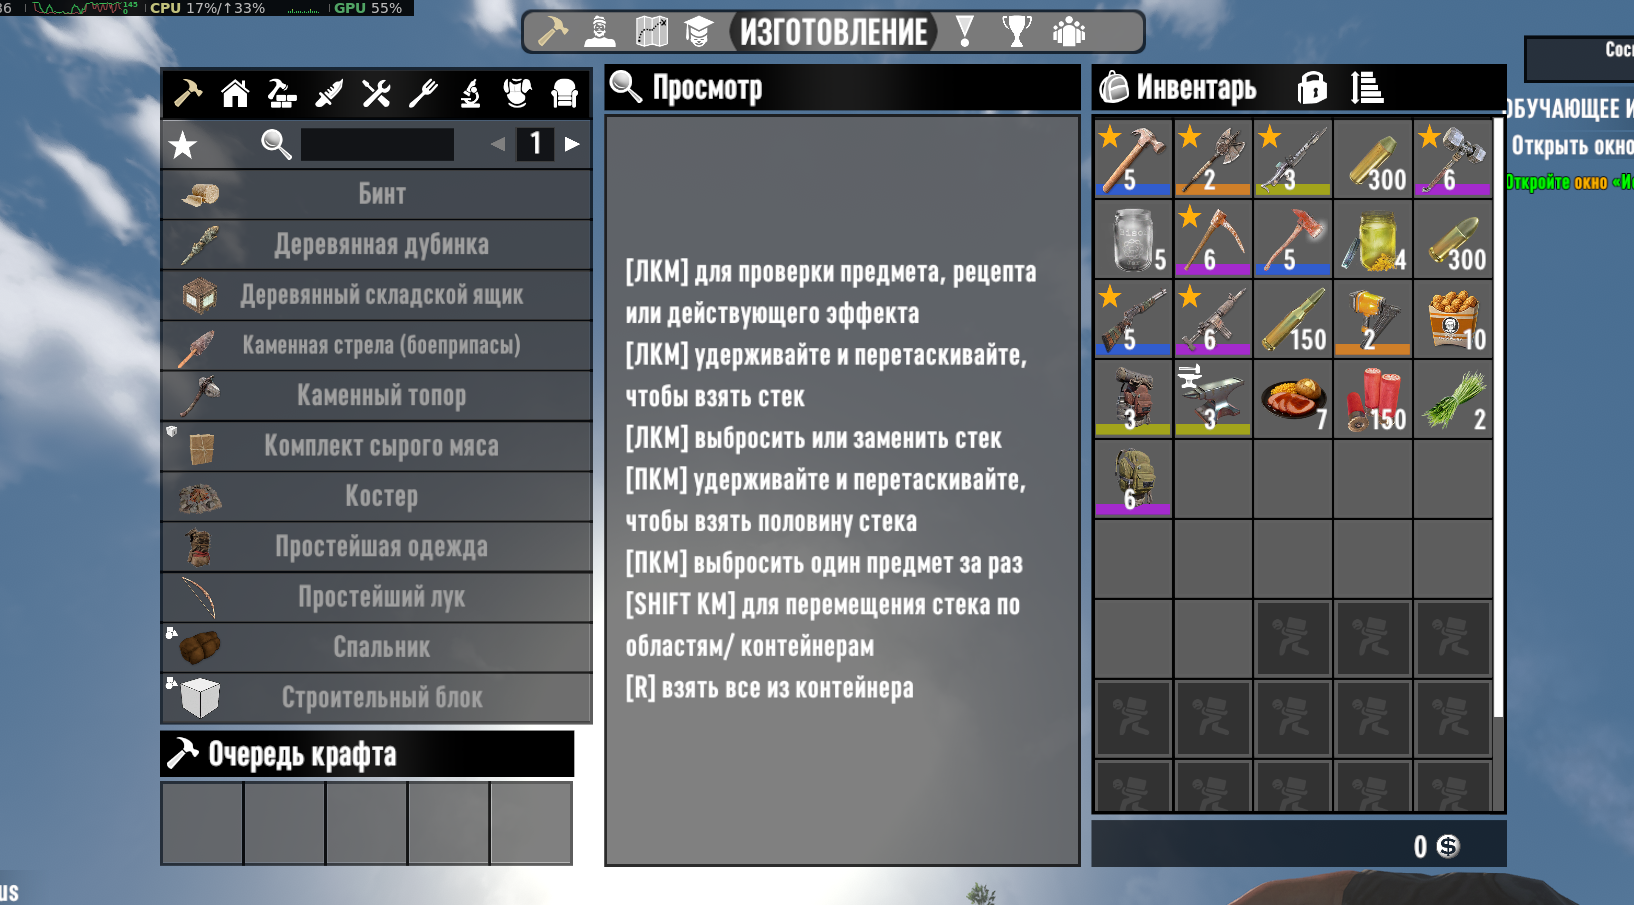
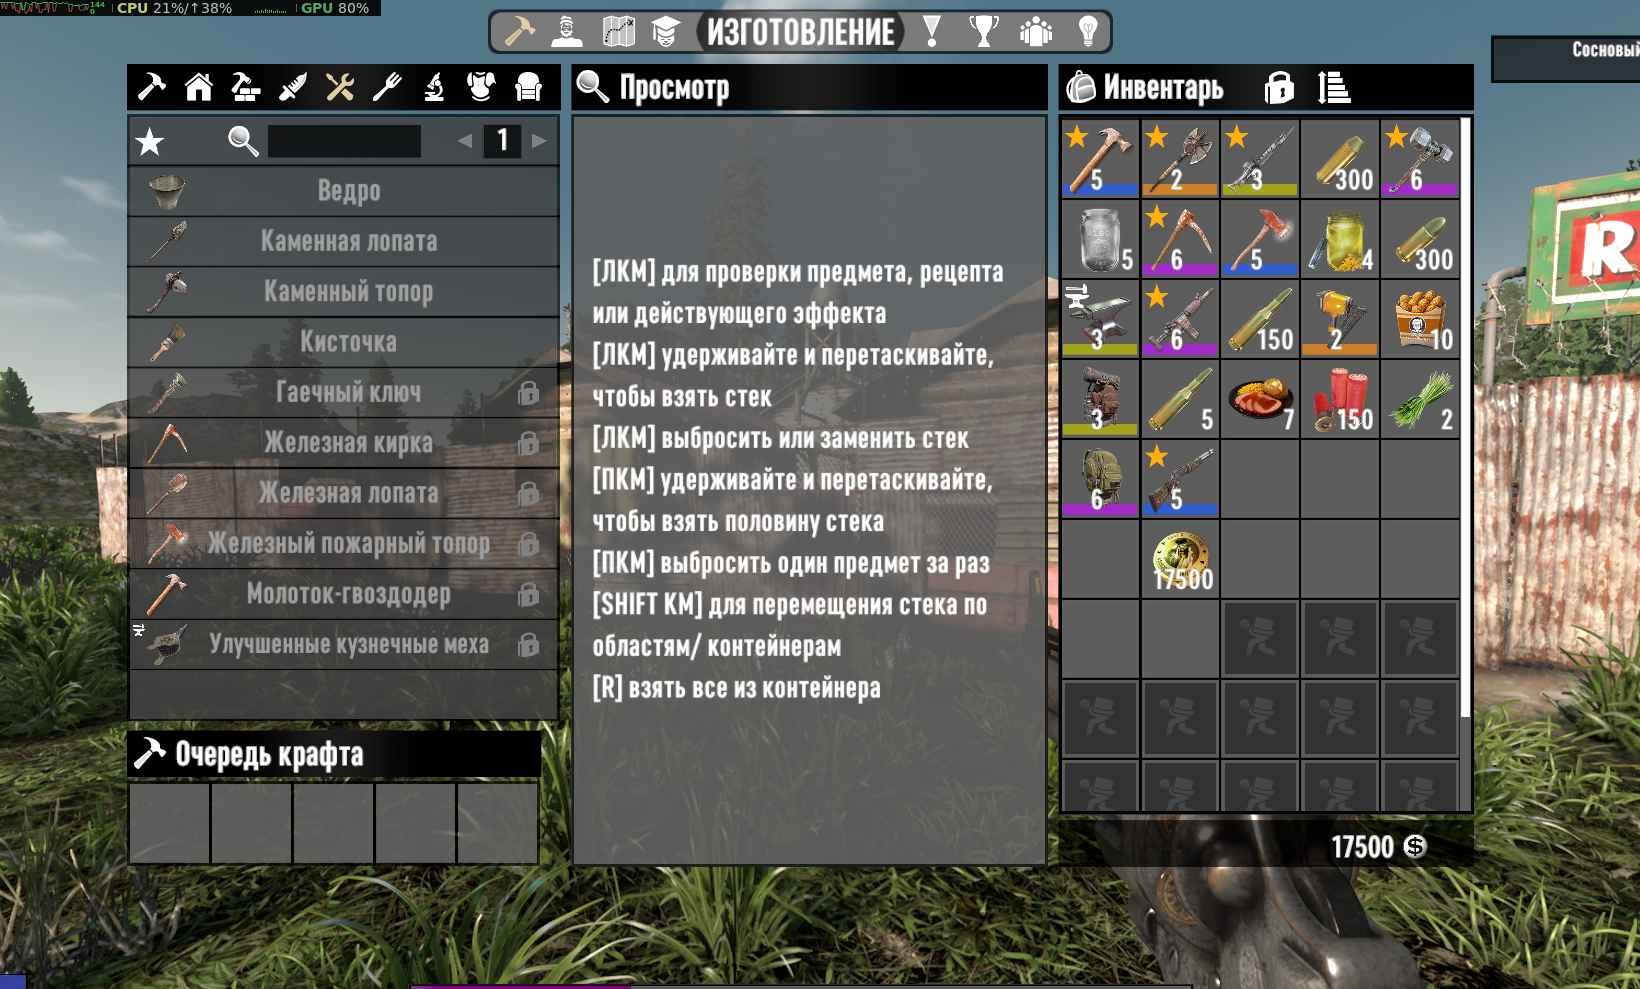
updated screenshots

diff --git a/README.md b/README.md
@@ -26,6 +26,8 @@ Adapted to game version 3.3.0 .
   <img src="Screenshots/craftinfopanel1.png" width="1000">
   <img src="Screenshots/craftinfopanel2.png" width="1000">
   <img src="Screenshots/iteminfopanel.png" width="1000">
+  <img src="Screenshots/serviceInfoPanel1.png" width="1000">
+  <img src="Screenshots/serviceInfoPanel2.png" width="1000">
   <img src="Screenshots/character_buffs.png" width="1000" title="Character and buff windows">
   <img src="Screenshots/trader.png" width="1000" title="Trader window">
 </p>
